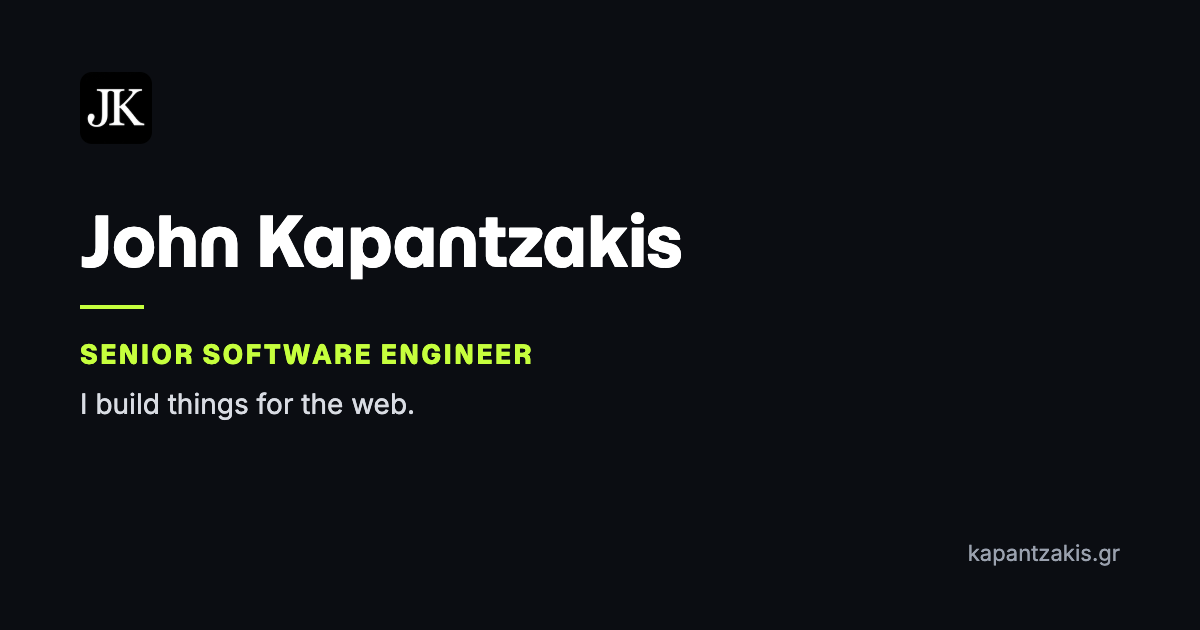
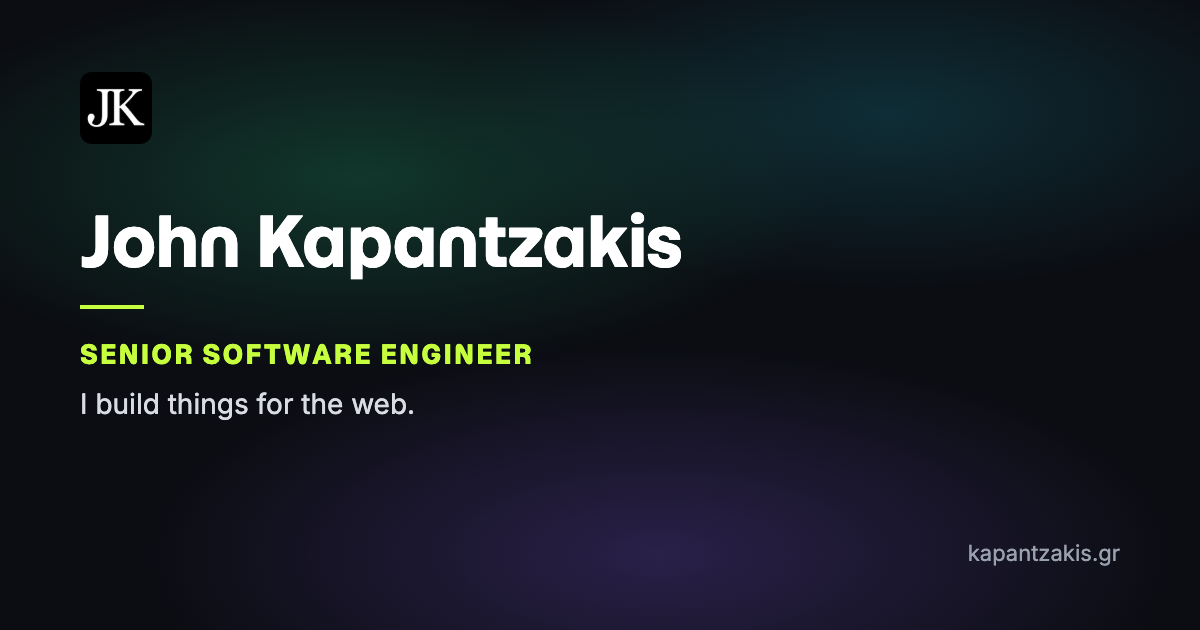
Give the thumbnail background the hero's aurora gradient
A static frame of the same three glows HeroAurora animates on the
homepage, at the same positions, instead of a flat background.

Changed region(s): [[0.3083, 0.6937, 0.8017, 1.0], [0.1233, 0.0905, 0.8633, 0.4222]]

diff --git a/scripts/og-image/og-image.css b/scripts/og-image/og-image.css
@@ -28,7 +28,25 @@ body {
   position: relative;
   width: 1200px;
   height: 630px;
-  background: #0b0d12;
+  /* A still frame of the homepage hero's aurora (components/HeroAurora.module.css), same three glows, same
+     positions, blended into --color-bg instead of animated so text keeps the same contrast margin (decision 82). */
+  background:
+    radial-gradient(
+      ellipse 56% 44% at 30% 28%,
+      color-mix(in srgb, #15533d 60%, transparent),
+      transparent 70%
+    ),
+    radial-gradient(
+      ellipse 52% 40% at 74% 18%,
+      color-mix(in srgb, #124854 55%, transparent),
+      transparent 70%
+    ),
+    radial-gradient(
+      ellipse 62% 48% at 55% 88%,
+      color-mix(in srgb, #3e2d6d 60%, transparent),
+      transparent 70%
+    ),
+    #0b0d12;
   font-family: "Inter", system-ui, sans-serif;
   display: flex;
   flex-direction: column;

diff --git a/docs/superpowers/specs/2026-10-02-personal-website-design.md b/docs/superpowers/specs/2026-10-02-personal-website-design.md
@@ -767,6 +767,6 @@ The user asked for a thumbnail to appear when the site is shared on social media
 
 - **Generation (decision 254):** a script, not a hand-designed file or a runtime `app/opengraph-image.tsx`. `next/og`'s `ImageResponse` was tried first and rejected: its bundled Satori/resvg cannot parse the woff2 files already committed for the CV (`Unsupported OpenType signature wOF2`), and converting them would add a new font-tooling dependency. Instead `scripts/og-image/build.mjs` follows `cv/build.mjs`'s precedent (decision 232) exactly: render HTML with the real woff2 fonts over `@font-face`, screenshot it with the locally installed Google Chrome through `@playwright/test`, and commit the PNG, since the Vercel build has no Chrome and this image changes about as often as the CV. `scripts/og-image/template.mjs` is a dependency-free renderer like `cv/template.mjs`; `scripts/og-image/og-image.css` holds the styling, with font paths resolved against a `<base>` pointing at the script's own directory, same technique as `cv/print.css`. The intermediate HTML is written to `.tmp/og-image/` for inspection, not committed.
 - **Content (decision 254):** `scripts/og-image/content.json` duplicates `profile.name`, `profile.role` and `profile.headline` by hand, the same tradeoff already accepted for the CV (decision 231) — importing `content/profile.ts` directly from a plain Node script fails on its `@/assets` path alias and its `next/image` static imports, which only Next's own bundler resolves. README's pre-merge notes say to update this file and rerun `npm run og-image` after editing those three profile fields.
-- **Visual design (decision 255):** 1200×630, `--color-bg` (`#0b0d12`) background, matching the site's dark theme. Top-left: the existing `assets/brand/jk-logo.png` monogram at 72×72, the same mark used for `app/icon.png`. Below it: `profile.name` in Momo Trust Display, a lime (`#c6ff3d`) rule, then `profile.role` styled like the homepage hero's eyebrow (`components/Hero.module.css`'s `.eyebrow`: Momo Trust Display, uppercase, letter-spaced, lime), then `profile.headline` in Inter. `kapantzakis.gr` sits bottom-right in muted Inter, small, for context in a crowded feed. Checked by rendering the live homepage hero at the same viewport and comparing the fonts and eyebrow treatment side by side before committing the final PNG.
+- **Visual design (decision 255):** 1200×630, `--color-bg` (`#0b0d12`) background, matching the site's dark theme. The user asked for a gradient; rather than a new one, the background is a still frame of the homepage hero's aurora (`components/HeroAurora.module.css`): the same three glows (`--color-aurora-green/teal/violet`), at the same relative positions as the `.green`, `.teal` and `.violet` bands, as static `radial-gradient`s (no animation, since this renders once) blended into `--color-bg` at the same intensity the hero keeps for contrast (decision 82). Top-left: the existing `assets/brand/jk-logo.png` monogram at 72×72, the same mark used for `app/icon.png`. Below it: `profile.name` in Momo Trust Display, a lime (`#c6ff3d`) rule, then `profile.role` styled like the homepage hero's eyebrow (`components/Hero.module.css`'s `.eyebrow`: Momo Trust Display, uppercase, letter-spaced, lime), then `profile.headline` in Inter. `kapantzakis.gr` sits bottom-right in muted Inter, small, for context in a crowded feed. Checked by rendering the live homepage hero at the same viewport and comparing the fonts, eyebrow treatment and aurora positions side by side before committing the final PNG.
 - **Scope (decision 256):** one image, wired once in `app/layout.tsx`'s root `metadata` (`openGraph.images` and `twitter.images`, `twitter.card: "summary_large_image"`). Every other route (`/`, every home region, `/cv`, `/privacy`) declares no `openGraph`/`twitter` of its own, so Next's metadata inheritance gives all of them this same image and title/description for free; no per-page duplication. A `/cv`-specific variant was considered and deferred as a future option, not required for the request.
 - **Not changed:** `content/profile.ts`, the favicon/apple-icon files, and the CV build.
